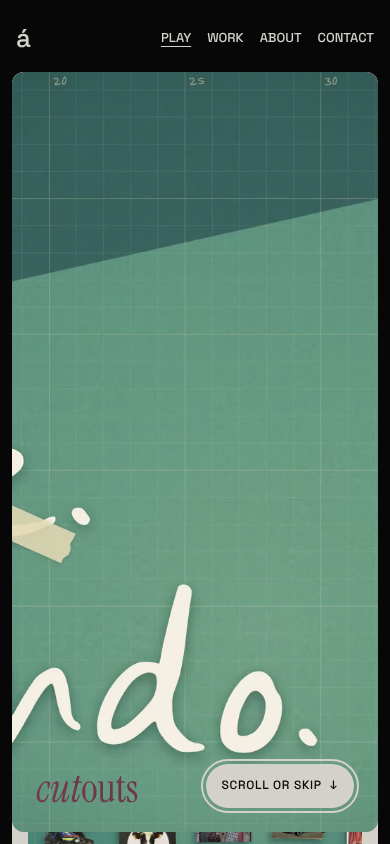
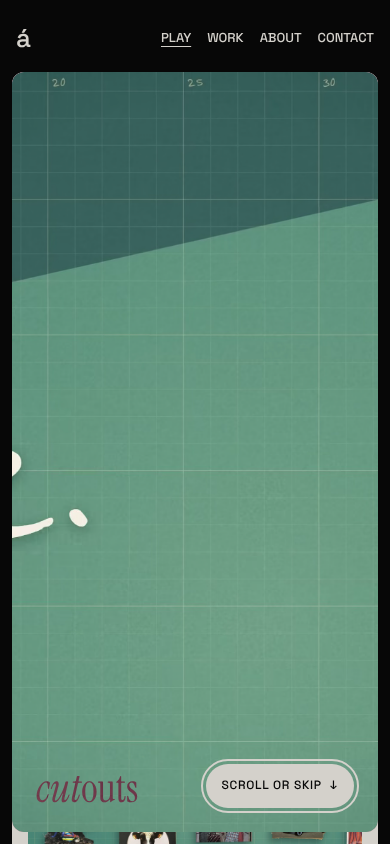
Play review fixes: hidden stage layers can't be clicked or focused (reduce motion played the wrong film), stage keeps captions and alt, no intro takeover with reduce motion, intro film whole on phones, bigger material, no repeated line in Cut Scenes
Claude-Session: https://claude.ai/code/session_01CkPXLWYruS7Yo71YCA886K

diff --git a/revisiones/2026-11-27-play-casos/index.html b/revisiones/2026-11-27-play-casos/index.html
@@ -1,0 +1,313 @@
+<!doctype html>
+<html lang="es">
+<head>
+<meta charset="utf-8">
+<meta name="viewport" content="width=device-width, initial-scale=1">
+<title>Revisión · casos Play</title>
+<link rel="preconnect" href="https://fonts.googleapis.com">
+<link href="https://fonts.googleapis.com/css2?family=Instrument+Serif:ital@0;1&family=Space+Grotesk:wght@400;500&display=swap" rel="stylesheet">
+<style>
+  :root {
+    --ink:#070707; --paper:#D4D1CB; --paper-2:#ECEAE5; --muted:#4A4744; --muted-ink:#8E8A84;
+    --line:rgba(7,7,7,.14); --red:#E92C30; --red-text:#B0161B;
+    --systems:#A3FFA9; --on-systems:#113830; --ops:#86CBF7; --on-ops:#065486;
+    --creative:#98E7EB; --on-creative:#146D72; --collab:#FFA4BF; --on-collab:#9E194C;
+    --amber:#E89A3C;
+    --serif:'Instrument Serif',Georgia,serif; --ui:'Space Grotesk',system-ui,sans-serif; --body:'Satoshi',system-ui,sans-serif;
+  }
+  * { box-sizing:border-box; }
+  body { margin:0; background:var(--ink); color:var(--ink); font-family:var(--body); font-size:16px; line-height:1.55; padding:12px; }
+  .panel { background:var(--paper); border-radius:12px; padding:40px; max-width:1200px; margin:0 auto 12px; }
+  h1,h2,h3 { font-family:var(--serif); font-weight:400; margin:0; }
+  h1 { font-size:clamp(40px,5vw,64px); line-height:1; }
+  h1 em, h2 em { font-style:italic; }
+  h2 { font-size:clamp(28px,2.6vw,40px); line-height:1.05; margin-bottom:16px; }
+  h3 { font-size:26px; line-height:1.1; }
+  .label { font-family:var(--ui); font-size:12px; letter-spacing:.06em; text-transform:uppercase; color:var(--muted); font-weight:500; }
+  .top { display:grid; grid-template-columns:auto 1fr; gap:32px; align-items:center; }
+  .light { display:flex; flex-direction:column; gap:8px; background:var(--ink); padding:14px; border-radius:999px; }
+  .light span { width:40px; height:40px; border-radius:50%; background:#2a2a2a; }
+  .light .on { background:var(--red); }
+  .lvl.rompe { background:var(--ink); color:var(--paper); }
+  .ba { display:grid; grid-template-columns:1fr 1fr; gap:16px; }
+  .ba img { width:100%; border-radius:8px; border:1px solid var(--line); display:block; }
+  .ba .tall { max-height:720px; object-fit:cover; object-position:top; }
+  @media (max-width:800px){ .ba { grid-template-columns:1fr; } }
+  .counts { display:flex; gap:12px; flex-wrap:wrap; margin-top:16px; }
+  .pill { font-family:var(--ui); font-size:13px; padding:6px 12px; border-radius:999px; background:var(--paper-2); }
+  .pill b { font-weight:500; }
+  .pill.r { background:var(--ink); color:var(--paper); }
+  .pill.a { background:var(--amber); color:#261E13; }
+  ul.plain { padding-left:18px; margin:8px 0 0; }
+  .find { border-top:1px solid var(--line); padding:32px 0; display:grid; grid-template-columns:minmax(0,5fr) minmax(0,7fr); gap:32px; }
+  .find:first-of-type { border-top:0; }
+  .find img { width:100%; border-radius:8px; display:block; border:1px solid var(--line); }
+  .find .imgs { display:flex; flex-direction:column; gap:12px; }
+  .cap { font-family:var(--ui); font-size:12px; color:var(--muted); margin-top:4px; }
+  .lvl { display:inline-block; font-family:var(--ui); font-size:12px; letter-spacing:.06em; text-transform:uppercase; padding:3px 10px; border-radius:999px; margin-bottom:10px; }
+  .lvl.nota { background:var(--amber); color:#261E13; }
+  .lvl.det { background:var(--paper-2); color:var(--ink); }
+  .visitor { font-family:var(--serif); font-style:italic; font-size:22px; line-height:1.2; margin:8px 0 12px; }
+  .why { color:var(--muted); font-size:15px; }
+  details { border-top:1px solid var(--line); padding:16px 0; }
+  summary { cursor:pointer; font-family:var(--ui); font-size:14px; letter-spacing:.04em; text-transform:uppercase; }
+  summary:focus-visible, a:focus-visible { outline:2px solid var(--ink); outline-offset:3px; }
+  .ok { display:grid; grid-template-columns:repeat(auto-fit,minmax(240px,1fr)); gap:12px; margin-top:16px; }
+  .ok div { background:var(--paper-2); border-radius:8px; padding:14px 16px; font-size:15px; }
+  .ok div b { font-family:var(--ui); font-weight:500; display:block; font-size:12px; letter-spacing:.06em; text-transform:uppercase; color:var(--on-systems); margin-bottom:4px; }
+  .sw { display:grid; grid-template-columns:repeat(auto-fit,minmax(150px,1fr)); gap:8px; margin:12px 0; }
+  .sw div { border-radius:8px; padding:12px; font-family:var(--ui); font-size:12px; letter-spacing:.06em; text-transform:uppercase; }
+  .sw small { display:block; text-transform:none; letter-spacing:0; font-size:13px; margin-top:6px; }
+  .grid3 { display:grid; grid-template-columns:repeat(3,1fr); gap:12px; }
+  .grid3 img { width:100%; border-radius:8px; border:1px solid var(--line); }
+  table { border-collapse:collapse; width:100%; font-size:15px; }
+  td, th { text-align:left; padding:8px 8px 8px 0; border-bottom:1px solid var(--line); vertical-align:top; }
+  th { font-family:var(--ui); font-weight:500; font-size:12px; letter-spacing:.06em; text-transform:uppercase; color:var(--muted); }
+  @media (max-width:800px) {
+    .panel { padding:24px 16px; }
+    .find { grid-template-columns:1fr; }
+    .top { grid-template-columns:1fr; }
+    .light { flex-direction:row; width:max-content; }
+    .grid3 { grid-template-columns:1fr; }
+  }
+</style>
+</head>
+<body>
+
+<section class="panel">
+  <div class="top">
+    <div class="light" aria-label="Semáforo: rojo"><span class="on"></span><span></span><span></span></div>
+    <div>
+      <p class="label">Revisión completa · 27 nov 2026 · Bloque 2, tarea 5: casos Play (Cut Scenes, cutouts, Silena)</p>
+      <h1>Rojo: <em>casi listo</em>, pero hay una cosa rota.</h1>
+      <p>La plantilla nueva funciona: escenario a la izquierda que cambia con cada capítulo, capítulos numerados a la derecha y todo en una columna en móvil y tablet. Los tres casos tienen su enlace en vivo y su material, no hay errores en la consola y nada se desborda a 390, 768 ni 1440 px. El semáforo está en rojo por una sola cosa: con <b>«reducir movimiento»</b> activado y en pantalla grande, los vídeos del escenario no se pueden ver (pulsas play en el que ves y arranca otro invisible). Lo demás que chirría: en Silena, las capturas dicen <b>«Designed by Maria Escarmiento»</b>; la intro de pantalla completa sale negra con «reducir movimiento» y muy recortada en móvil; y Cut Scenes repite una frase.</p>
+      <div class="counts">
+        <span class="pill r"><b>1</b> rompe algo</span>
+        <span class="pill a"><b>6</b> se nota</span>
+        <span class="pill"><b>8</b> detalle</span>
+      </div>
+      <p class="cap">Revisado sobre la copia estática servida en local (http://localhost:4325), rama bloque-2-contenido, último commit 74866e1. Chromium sin ventana, a 390, 768 y 1440 px, con capturas al hacer scroll.</p>
+    </div>
+  </div>
+
+  <div class="ok">
+    <div><b>Hecho</b>Silena nuevo, Cut Scenes en 5 capítulos y cutouts corto en 3. Cada uno con «View live» y material: capturas y clips en Cut Scenes, una captura más la intro en cutouts, siete capturas de su web en Silena.</div>
+    <div><b>Hecho</b>Plantilla 4: a 1440 px el escenario cambia al capítulo que lees (Cut Scenes 1→2→3→4; Silena 1→3; en cutouts solo hay una imagen). A 390 y 768 px, una sola columna y el material dentro de cada capítulo.</div>
+    <div><b>Hecho</b>Hecha con el sistema: la comprobación pasa sin fallos nuevos y la plantilla vieja ya no tiene deuda. Tarjeta de título, encabezado de capítulo, vídeo, botón y «Next case» se ven igual que en /styleguide.</div>
+    <div><b>Hecho</b>Sin [DRAFT]. Los [PLACEHOLDER] se ven a propósito: 1 en Cut Scenes, 2 en cutouts y 2 en Silena.</div>
+    <div><b>Hecho</b>Nada inventado: el texto de Cut Scenes ya estaba publicado en el caso anterior o sale de su ficha; el de cutouts y Silena sale de sus fichas y de la propia web de Silena («a quiet object of light», «the room becomes someone»).</div>
+    <div><b>Hecho</b>Las capturas de móvil ya no pasan del 70% de la pantalla en ningún ancho.</div>
+    <div><b>Hecho</b>Consola limpia y ningún enlace interno roto. «Next case» da la vuelta: Cut Scenes → cutouts → Silena → Cut Scenes. /play enseña las tres.</div>
+    <div><b>Hecho</b>Intro: se quita con la rueda, con el botón, tocando en móvil y con el teclado. Con «reducir movimiento» no arranca sola.</div>
+    <div><b>Hecho</b>Monexa se llama monexa en su página y en /styleguide.</div>
+  </div>
+</section>
+
+<section class="panel">
+  <h2>Los cinco más importantes</h2>
+
+  <article class="find">
+    <div>
+      <span class="lvl rompe">Rompe algo</span>
+      <h3>1 · Con «reducir movimiento», en pantalla grande, los vídeos del escenario no se pueden ver</h3>
+      <p class="visitor">«Le doy al play y no pasa nada.»</p>
+      <p class="why">Con «reducir movimiento», los vídeos no arrancan solos y enseñan un botón de play: bien. Pero en el escenario las piezas de todos los capítulos están apiladas en el mismo sitio, una encima de otra, y las que no se ven siguen ahí, transparentes. Al pulsar el play del vídeo que ves, el clic lo recibe el de encima, que es invisible. Comprobado en Cut Scenes, capítulo 3: pulsas «Screen flow» y empieza a sonar «Architecture», que no se ve. En pantalla grande esos dos vídeos solo están en el escenario (dentro del capítulo se esconden para no repetirse), así que quien tenga «reducir movimiento» no los puede ver. Además, con el teclado se puede llegar a esos botones escondidos.</p>
+    </div>
+    <div class="imgs">
+      <img src="m-escenario-reducido.png" alt="Escenario de Cut Scenes con controles de vídeo, marcado">
+      <p class="cap">1440 px, «reducir movimiento». Este play no arranca este vídeo: arranca otro invisible.</p>
+    </div>
+  </article>
+
+  <article class="find">
+    <div>
+      <span class="lvl nota">Se nota</span>
+      <h3>2 · Silena: las capturas dicen «Designed by Maria Escarmiento»</h3>
+      <p class="visitor">«¿Pero esto no lo diseñó ella? Aquí pone que lo diseñó otra persona.»</p>
+      <p class="why">La portada de Silena, en escritorio y en móvil, lleva «Designed by Maria Escarmiento». En el caso, el rol de Ali es «Concept, design, direction». Puede ser la diseñadora inventada de la lámpara, o un resto de la plantilla de Framer: desde aquí no lo sé. En cualquier caso, quien lo vea puede pensar que Ali se atribuye trabajo ajeno, y sale el nombre de una persona. La ficha ya pregunta qué viene de la plantilla y de dónde son las fotos («afecta a qué se puede enseñar»), pero las capturas se enseñan antes de tener esa respuesta. Ali tiene que decidir antes de publicar.</p>
+    </div>
+    <div class="imgs">
+      <img src="m-silena-designed-by.png" alt="Caso Silena a 768 px con «Designed by Maria Escarmiento» marcado en dos capturas">
+      <p class="cap">768 px. El nombre sale en la captura de escritorio (pequeño) y en la de móvil (grande).</p>
+    </div>
+  </article>
+
+  <article class="find">
+    <div>
+      <span class="lvl nota">Se nota</span>
+      <h3>3 · Con «reducir movimiento», la intro es una pantalla negra con los controles encima del título</h3>
+      <p class="visitor">«Se ha quedado en negro. ¿Esto carga?»</p>
+      <p class="why">Cut Scenes: con «reducir movimiento», la intro no arranca (bien), pero lo que se ve es su primer fotograma, que es negro. El brief dice que un vídeo enseña siempre un póster con contenido, nunca negro. Además, la barra de controles del vídeo cae justo encima del nombre «cut scenes» y por debajo del botón «Scroll or skip»: se pisan. Pasa a 390 y a 1440 px. En cutouts el póster sí tiene contenido, pero los controles también pisan el nombre.</p>
+    </div>
+    <div class="imgs">
+      <img src="m-intro-reducido-390.png" alt="Intro de Cut Scenes a 390 px en negro, con los controles sobre el título">
+      <p class="cap">390 px, «reducir movimiento». Arriba: todo negro. Abajo: controles, nombre y botón, unos encima de otros.</p>
+    </div>
+  </article>
+
+  <article class="find">
+    <div>
+      <span class="lvl nota">Se nota</span>
+      <h3>4 · En móvil, la intro a pantalla completa recorta el vídeo</h3>
+      <p class="visitor">«¿Qué es esto verde? Solo veo un trozo de letra.»</p>
+      <p class="why">El vídeo de la intro es apaisado y en móvil se estira para llenar una pantalla vertical, así que se corta casi todo. En cutouts se ve el tapete verde y un trozo de la «s» de «cutouts»; en Cut Scenes, «FILM, IN» cortado por los lados. La regla 4 del sistema dice que los vídeos nunca se recortan. Ya pasaba antes de esta pieza (se ha mantenido tal cual); lo apunto porque en móvil es lo primero que se ve.</p>
+    </div>
+    <div class="imgs">
+      <img src="m-intro-recortada-cutouts.png" alt="Intro de cutouts a 390 px: tapete verde y un trozo de letra">
+      <img src="m-intro-recortada-cutscenes.png" alt="Intro de Cut Scenes a 390 px con el texto cortado">
+      <p class="cap">390 px. cutouts y Cut Scenes al entrar.</p>
+    </div>
+  </article>
+
+  <article class="find">
+    <div>
+      <span class="lvl nota">Se nota</span>
+      <h3>5 · Cut Scenes dice dos veces la misma frase en la misma pantalla</h3>
+      <p class="visitor">«Esto lo acabo de leer.»</p>
+      <p class="why">«When the last piece lands, the credits roll.» cierra la intro y vuelve a cerrar el capítulo 1, palabra por palabra, a pocos centímetros. En el capítulo 3, «Every path finishes with the credits» lo dice una tercera vez. El brief pide no repetir y no rellenar.</p>
+    </div>
+    <div class="imgs">
+      <img src="m-frase-repetida.png" alt="Cut Scenes a 1440 px con las dos frases iguales marcadas">
+      <p class="cap">1440 px. Las dos frases marcadas son la misma.</p>
+    </div>
+  </article>
+</section>
+
+<section class="panel">
+  <h2>Antes y después</h2>
+  <p>Comparado con la revisión anterior de estos casos (revisiones/2026-11-27-play-work).</p>
+  <div class="ba" style="margin-top:16px">
+    <div><p class="label">Antes · Cut Scenes, 1440 px (página entera)</p><img class="tall" src="antes-cut-scenes-1440.png" alt="Caso Cut Scenes anterior"></div>
+    <div><p class="label">Después · Cut Scenes, 1440 px</p><img src="cut-scenes-1440-0-top.png" alt="Caso Cut Scenes nuevo, arriba"><img src="cut-scenes-1440-3.png" alt="Caso Cut Scenes nuevo, capítulos 2 a 4" style="margin-top:12px"></div>
+  </div>
+  <div class="ba" style="margin-top:24px">
+    <div><p class="label">Antes · cutouts, solo intro con [DRAFT]</p><img src="antes-cutouts.png" alt="cutouts anterior con DRAFT"></div>
+    <div><p class="label">Después · cutouts, 1440 px</p><img src="cutouts-1440-0-top.png" alt="cutouts nuevo"></div>
+  </div>
+  <div class="ba" style="margin-top:24px">
+    <div><p class="label">Antes · Silena</p><p>No existía.</p></div>
+    <div><p class="label">Después · Silena, 1440 px</p><img src="silena-1440-0-top.png" alt="Silena nuevo"></div>
+  </div>
+</section>
+
+<section class="panel">
+  <h2>El resto</h2>
+
+  <details>
+    <summary>Se nota · 2 más</summary>
+    <article class="find">
+      <div>
+        <span class="lvl nota">Se nota</span>
+        <h3>6 · El material sale diminuto y descolocado a 768 px (y los clips, pequeños también a 1440)</h3>
+        <p class="visitor">«No se ve qué pasa en esos vídeos.»</p>
+        <p class="why">A 768 px el capítulo 1 de Cut Scenes pone la captura de escritorio en miniatura al lado de dos móviles enormes, con un hueco debajo, y el tercer móvil se queda solo en otra fila. En el capítulo 3, los cuatro clips miden unos 227 px de ancho, tres en una fila y uno huérfano. A 1440 px los clips del capítulo 3 miden 201 px: se ven como sellos y no se lee nada. Mismo patrón en Silena a 768 px.</p>
+      </div>
+      <div class="imgs">
+        <img src="m-rejilla-768.png" alt="Cut Scenes a 768 px: captura diminuta y móvil huérfano marcados">
+        <img src="m-clips-pequenos-768.png" alt="Cut Scenes a 768 px: clips pequeños marcados">
+        <p class="cap">768 px, capítulos 1 y 3 de Cut Scenes.</p>
+      </div>
+    </article>
+    <article class="find">
+      <div>
+        <span class="lvl nota">Se nota</span>
+        <h3>7 · En pantalla grande, la pieza del escenario pierde su pie de foto y su descripción</h3>
+        <p class="visitor">«¿Qué estoy viendo aquí?»</p>
+        <p class="why">La primera pieza de cada capítulo va al escenario y se esconde dentro del capítulo. Pero en el escenario va sin pie: a 1440 px desaparecen «Black on red, for whoever receives it», «Screen flow», «Architecture» y «The place to be». Además el escenario está escondido para los lectores de pantalla, así que esas imágenes se quedan sin descripción para quien no ve. En móvil sí salen.</p>
+      </div>
+      <div class="imgs">
+        <img src="m-sin-pie-escenario.png" alt="Escenario de Cut Scenes a 1440 px sin pie de foto">
+        <p class="cap">1440 px. Los clips de la derecha llevan pie; el del escenario, no.</p>
+      </div>
+    </article>
+  </details>
+
+  <details>
+    <summary>Detalle · 8</summary>
+    <article class="find">
+      <div><span class="lvl det">Detalle</span><h3>Las capturas de móvil quedan pegadas a la izquierda</h3>
+      <p class="visitor">«Hay un hueco raro a la derecha del móvil.»</p>
+      <p class="why">Al estrecharse para no pasar del 70% de la pantalla, las capturas de móvil se quedan alineadas a la izquierda con un hueco a la derecha (390 y 768 px, Cut Scenes y Silena).</p></div>
+      <div class="imgs"><img src="m-movil-a-la-izquierda.png" alt="Silena a 390 px con el hueco a la derecha del móvil marcado"></div>
+    </article>
+    <article class="find">
+      <div><span class="lvl det">Detalle</span><h3>cutouts dice «Project» donde los otros dicen «Type»</h3>
+      <p class="visitor">«¿Por qué este dato se llama distinto?»</p>
+      <p class="why">En la tarjeta de título, Cut Scenes y Silena ponen TYPE · Personal exploration; cutouts pone PROJECT.</p></div>
+      <div class="imgs"><img src="m-cutouts-project.png" alt="Tarjeta de cutouts con PROJECT marcado"></div>
+    </article>
+    <article class="find">
+      <div><span class="lvl det">Detalle</span><h3>Silena, capítulo 3: el texto empieza por «Feel» y el escenario enseña «The place to be»</h3>
+      <p class="visitor">«Lee una cosa y ve otra.»</p>
+      <p class="why">El texto cuenta las escenas en orden (Feel, The place to be, Light rituals), pero la primera imagen del capítulo, la que va al escenario, es la habitación.</p></div>
+      <div class="imgs"><img src="m-silena-orden.png" alt="Silena capítulo 3 con el escenario y el texto marcados"></div>
+    </article>
+    <article class="find">
+      <div><span class="lvl det">Detalle</span><h3>«It wasn’t made for IKEA.» sin decir antes que la lámpara es de IKEA</h3>
+      <p class="visitor">«¿IKEA? ¿Qué tiene que ver?»</p>
+      <p class="why">La intro de Silena niega un encargo de IKEA, pero el caso no cuenta en ningún sitio que parte de una lámpara de IKEA (la ficha sí: VARMBLIXT). Seguramente lo resuelva la respuesta al placeholder «why this lamp».</p></div>
+      <div></div>
+    </article>
+    <article class="find">
+      <div><span class="lvl det">Detalle</span><h3>Al cerrar la intro con el teclado, el siguiente tabulador salta al pie</h3>
+      <p class="visitor">(Solo con teclado) «He pasado la intro y me ha llevado a LinkedIn.»</p>
+      <p class="why">Tras quitar la intro con la flecha o Enter, la primera pulsación de Tab va a LinkedIn, CV y Let’s talk, y solo después vuelve arriba. El foco se ve bien en todo momento.</p></div>
+      <div></div>
+    </article>
+    <article class="find">
+      <div><span class="lvl det">Detalle</span><h3>El nombre en la intro de cutouts se lee poco</h3>
+      <p class="visitor">«El nombre casi no se distingue del fondo.»</p>
+      <p class="why">El nombre de la intro invierte el color de lo que tiene detrás; sobre el tapete verde sale un rosa apagado con poco contraste.</p></div>
+      <div class="imgs"><img src="cutouts-390-intro.png" alt="Intro de cutouts a 390 px"></div>
+    </article>
+    <article class="find">
+      <div><span class="lvl det">Detalle</span><h3>Algunas medidas puestas a mano en la plantilla</h3>
+      <p class="visitor">(No lo ve un visitante; es para que el sistema no se escape.)</p>
+      <p class="why">La comprobación pasa, pero no mira todo. La plantilla usa medidas que no están en /styleguide: 200 px para la altura del escenario, 110 px de reserva para la intro, 180 px de columna mínima en la rejilla y un modo de mezcla en el nombre de la intro. El bloque de vídeo usa 70% de la altura de pantalla. En cutouts.yaml queda un color suelto (#2B6A4D) que ya no se usa.</p></div>
+      <div></div>
+    </article>
+    <article class="find">
+      <div><span class="lvl det">Detalle</span><h3>En /play, Silena sale como captura recortada, no como objeto</h3>
+      <p class="visitor">«Las otras dos son objetos; esta es una pantalla.»</p>
+      <p class="why">Cut Scenes y cutouts tienen su objeto recortado; Silena usa su captura de portada, recortada. Ya está apuntado en la ficha como recurso pendiente de Ali (la lámpara).</p></div>
+      <div class="imgs"><img src="play-1440-silena.png" alt="/play a 1440 px con Silena en el centro"></div>
+    </article>
+  </details>
+
+  <details>
+    <summary>Todas las capturas</summary>
+    <p class="cap">En esta carpeta: <b>&lt;caso&gt;-&lt;ancho&gt;-intro</b> (entrada), <b>-0-top</b> (arriba, tras la intro), <b>-1 … -5</b> (cada capítulo, al leerlo), <b>-end</b> (final y «Next case»). <b>rm-</b> = con «reducir movimiento». <b>guia-</b> = componentes en /styleguide para comparar. <b>m-</b> = capturas marcadas.</p>
+    <div class="grid3" style="margin-top:12px">
+      <img src="cut-scenes-390-1.png" alt="Cut Scenes 390 capítulo 1"><img src="cut-scenes-768-1.png" alt="Cut Scenes 768 capítulo 1"><img src="cut-scenes-1440-end.png" alt="Cut Scenes 1440 final">
+      <img src="cutouts-390-1.png" alt="cutouts 390 capítulo 1"><img src="cutouts-768-1.png" alt="cutouts 768 capítulo 1"><img src="cutouts-1440-end.png" alt="cutouts 1440 final">
+      <img src="silena-390-3.png" alt="Silena 390 capítulo 3"><img src="silena-768-3.png" alt="Silena 768 capítulo 3"><img src="silena-1440-end.png" alt="Silena 1440 final">
+      <img src="guia-TitleCard-1440.png" alt="TitleCard en styleguide"><img src="guia-ChapterHeading-390.png" alt="ChapterHeading en styleguide"><img src="guia-VideoBlock-1440.png" alt="VideoBlock en styleguide">
+    </div>
+  </details>
+</section>
+
+<section class="panel">
+  <h2>Peso</h2>
+  <table>
+    <tr><th>Caso</th><th>Lo que baja al entrar (móvil)</th><th>Nota</th></tr>
+    <tr><td>Cut Scenes</td><td>≈ 1,4 MB</td><td>La intro y los clips cargan al verlos; ningún archivo suelto pasa de 400 KB al entrar.</td></tr>
+    <tr><td>cutouts</td><td>≈ 0,4 MB</td><td>Ligero.</td></tr>
+    <tr><td>Silena</td><td>≈ 1,0 MB</td><td>Siete capturas en JPG de 70 a 270 KB.</td></tr>
+  </table>
+</section>
+
+<section class="panel">
+  <h2>No he podido comprobar</h2>
+  <ul class="plain">
+    <li><b>El enlace en vivo de Cut Scenes</b> (cut-scenes.vercel.app): la red de esta sesión no deja salir a esa dirección. Los de cutouts y Silena sí responden.</li>
+    <li><b>El botón «Repository» de Cut Scenes</b> (GitHub): no tengo acceso a ese repo desde aquí, así que no sé si es público. Si es privado, el visitante llegaría a una página de error.</li>
+    <li><b>Quién es «Maria Escarmiento»</b> y de dónde salen las fotos de Silena: solo lo sabe Ali.</li>
+    <li><b>Nitidez en pantalla Retina y en un móvil de verdad</b>: las capturas son a densidad normal, en un navegador sin ventana. El scroll fluido y el gesto táctil real tampoco se pueden medir así.</li>
+    <li><b>Safari</b>: solo he probado Chromium. Los vídeos en Safari (formatos y reproducción automática) quedan sin ver.</li>
+    <li><b>Red lenta</b>: no he simulado una conexión lenta. Por lo visto en el código, mientras carga, la intro de Cut Scenes enseñaría su póster negro (hallazgo 3).</li>
+    <li><b>Lector de pantalla real</b>: lo del escenario sin descripción (hallazgo 7) sale de mirar el código y el orden del foco, no de escucharlo.</li>
+  </ul>
+</section>
+
+</body>
+</html>
